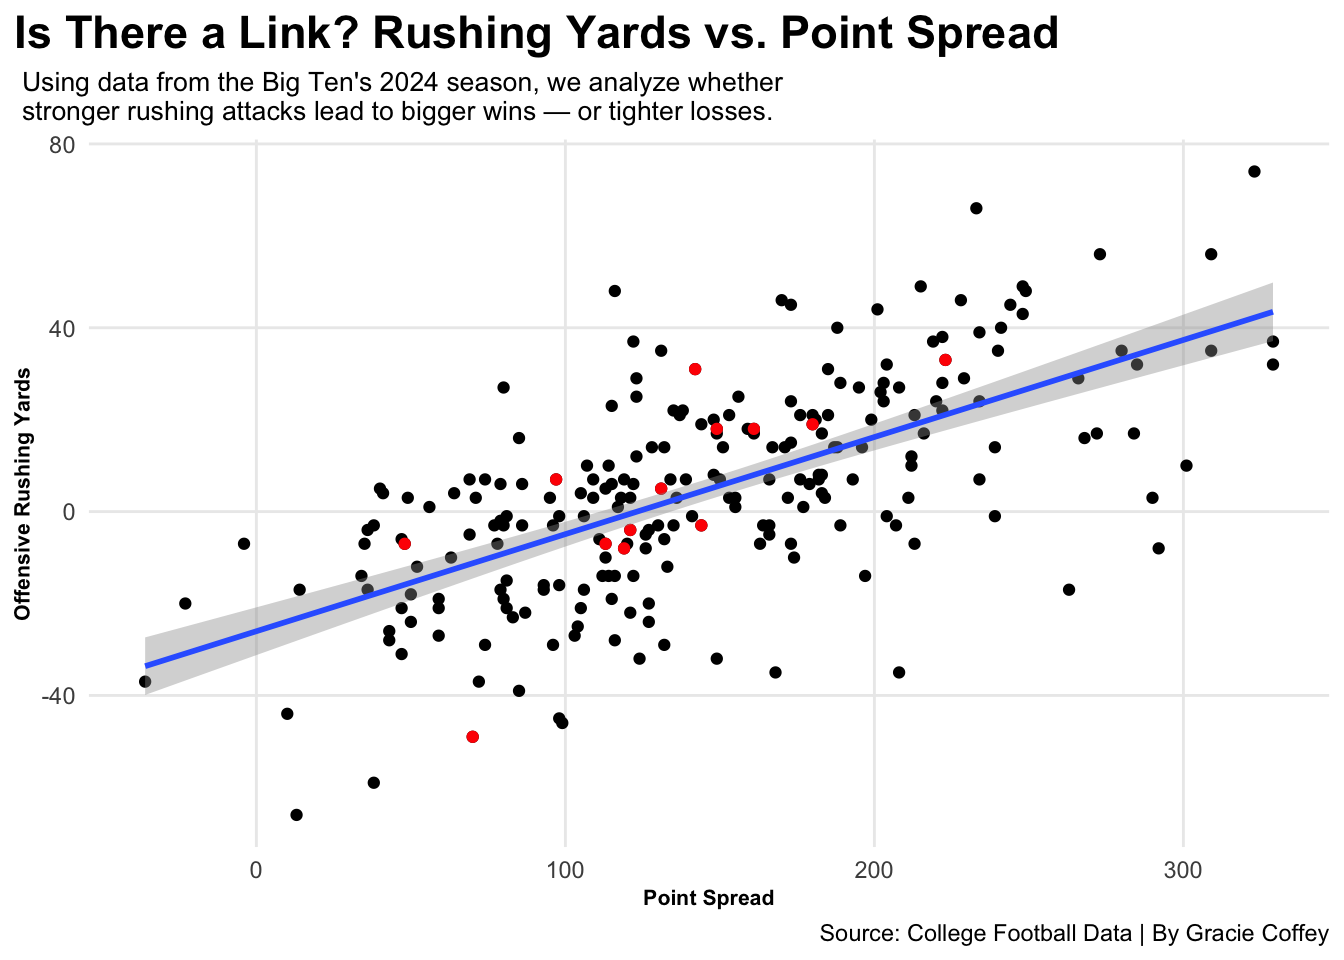
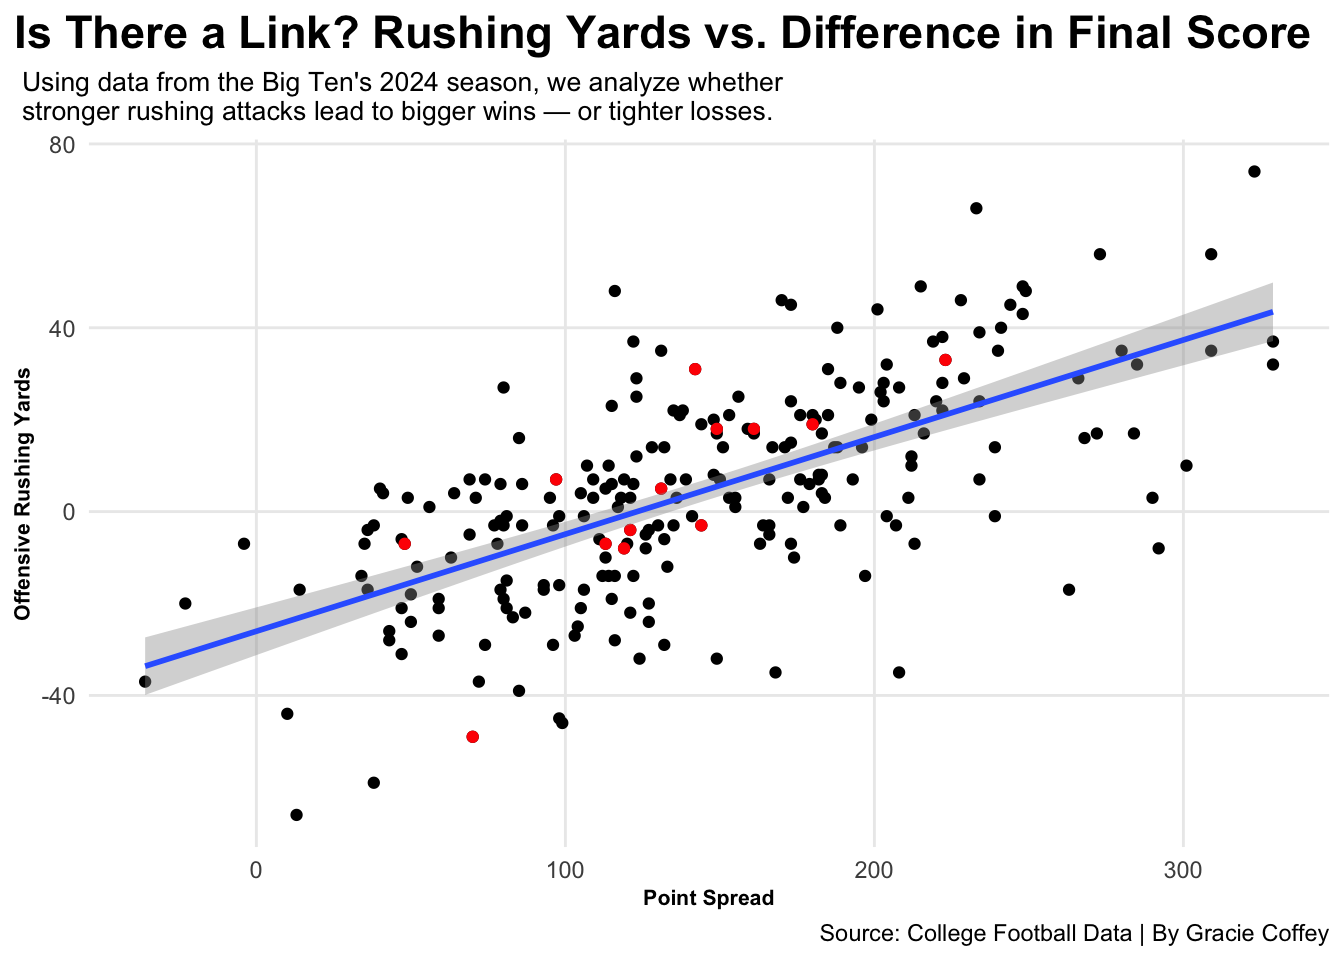
initial commit

Changed region(s): [[0.5938, 0.0, 0.9688, 0.0625]]

diff --git a/posts/nebraska-football-offensive-line/index.html b/posts/nebraska-football-offensive-line/index.html
@@ -223,7 +223,7 @@ date  (1): Date
 <span id="cb3-11"><a href="#cb3-11" aria-hidden="true" tabindex="-1"></a>  <span class="fu">geom_bar</span>(<span class="at">data=</span>huskers, <span class="fu">aes</span>(<span class="at">x=</span><span class="fu">reorder</span>(Team, RushingYds), <span class="at">weight=</span>RushingYds), <span class="at">fill=</span><span class="st">"red"</span>) <span class="sc">+</span></span>
 <span id="cb3-12"><a href="#cb3-12" aria-hidden="true" tabindex="-1"></a>  <span class="fu">coord_flip</span>() <span class="sc">+</span></span>
 <span id="cb3-13"><a href="#cb3-13" aria-hidden="true" tabindex="-1"></a>  <span class="fu">labs</span>(</span>
-<span id="cb3-14"><a href="#cb3-14" aria-hidden="true" tabindex="-1"></a>    <span class="at">x=</span><span class="st">"Team"</span>, </span>
+<span id="cb3-14"><a href="#cb3-14" aria-hidden="true" tabindex="-1"></a>    <span class="at">x=</span><span class="st">"Big 10 Teams"</span>, </span>
 <span id="cb3-15"><a href="#cb3-15" aria-hidden="true" tabindex="-1"></a>    <span class="at">y=</span><span class="st">"Offensive Rushing Yards"</span>, </span>
 <span id="cb3-16"><a href="#cb3-16" aria-hidden="true" tabindex="-1"></a>    <span class="at">title=</span><span class="st">"Falling Behind? Ground Game vs. the Big Ten"</span>, </span>
 <span id="cb3-17"><a href="#cb3-17" aria-hidden="true" tabindex="-1"></a>    <span class="at">subtitle=</span><span class="st">"Where the Huskers Stand in the Big Ten's 2024 Season Rushing Race."</span>, </span>
@@ -288,7 +288,7 @@ date  (1): Date
 <span id="cb6-8"><a href="#cb6-8" aria-hidden="true" tabindex="-1"></a>  <span class="fu">labs</span>(</span>
 <span id="cb6-9"><a href="#cb6-9" aria-hidden="true" tabindex="-1"></a>    <span class="at">x=</span><span class="st">"Point Spread"</span>,</span>
 <span id="cb6-10"><a href="#cb6-10" aria-hidden="true" tabindex="-1"></a>    <span class="at">y=</span><span class="st">"Offensive Rushing Yards"</span>, </span>
-<span id="cb6-11"><a href="#cb6-11" aria-hidden="true" tabindex="-1"></a>    <span class="at">title=</span><span class="st">"Is There a Link? Rushing Yards vs. Point Spread"</span>, </span>
+<span id="cb6-11"><a href="#cb6-11" aria-hidden="true" tabindex="-1"></a>    <span class="at">title=</span><span class="st">"Is There a Link? Rushing Yards vs. Difference in Final Score"</span>, </span>
 <span id="cb6-12"><a href="#cb6-12" aria-hidden="true" tabindex="-1"></a>    <span class="at">subtitle=</span><span class="st">" Using data from the Big Ten's 2024 season, we analyze whether</span></span>
 <span id="cb6-13"><a href="#cb6-13" aria-hidden="true" tabindex="-1"></a><span class="st"> stronger rushing attacks lead to bigger wins — or tighter losses."</span>, </span>
 <span id="cb6-14"><a href="#cb6-14" aria-hidden="true" tabindex="-1"></a>    <span class="at">caption=</span><span class="st">"Source: College Football Data | By Gracie Coffey"</span></span>

diff --git a/index.html b/index.html
@@ -205,7 +205,7 @@ window.Quarto = {
 
 <div class="quarto-listing quarto-listing-container-default" id="listing-listing">
 <div class="list quarto-listing-default">
-<div class="quarto-post image-right" data-index="0" data-categories="Zm9vdGJhbGwlMkNjZmIlMkNiaWclMjAxMCUyQ25lYnJhc2th" data-listing-date-sort="1712984400000" data-listing-file-modified-sort="1744589094232" data-listing-date-modified-sort="NaN" data-listing-reading-time-sort="6" data-listing-word-count-sort="1100">
+<div class="quarto-post image-right" data-index="0" data-categories="Zm9vdGJhbGwlMkNjZmIlMkNiaWclMjAxMCUyQ25lYnJhc2th" data-listing-date-sort="1712984400000" data-listing-file-modified-sort="1744733484821" data-listing-date-modified-sort="NaN" data-listing-reading-time-sort="6" data-listing-word-count-sort="1104">
 <div class="thumbnail">
 <p><a href="./posts/nebraska-football-offensive-line/index.html" class="no-external"></a></p><a href="./posts/nebraska-football-offensive-line/index.html" class="no-external">
 <p><img loading="lazy" src="./posts/nebraska-football-offensive-line/image.png" class="thumbnail-image"></p>
